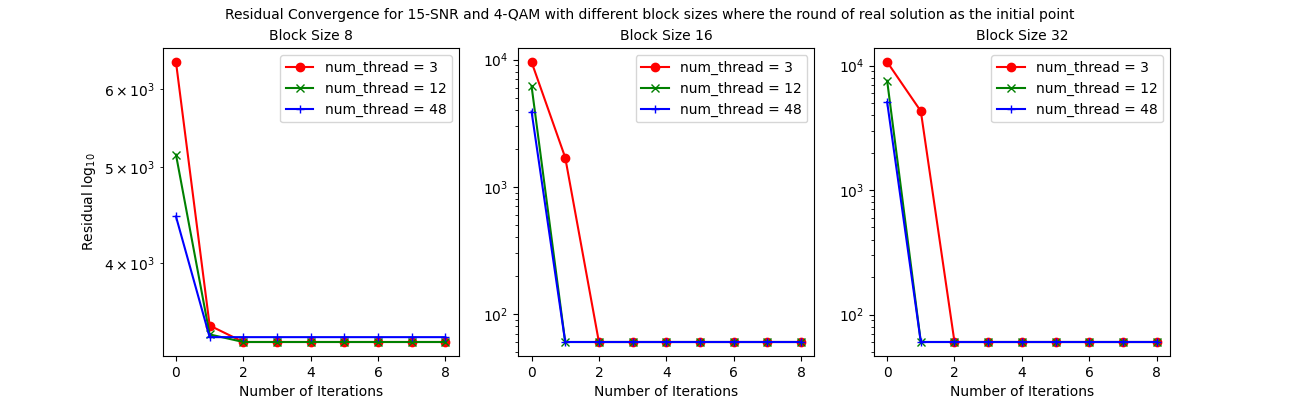
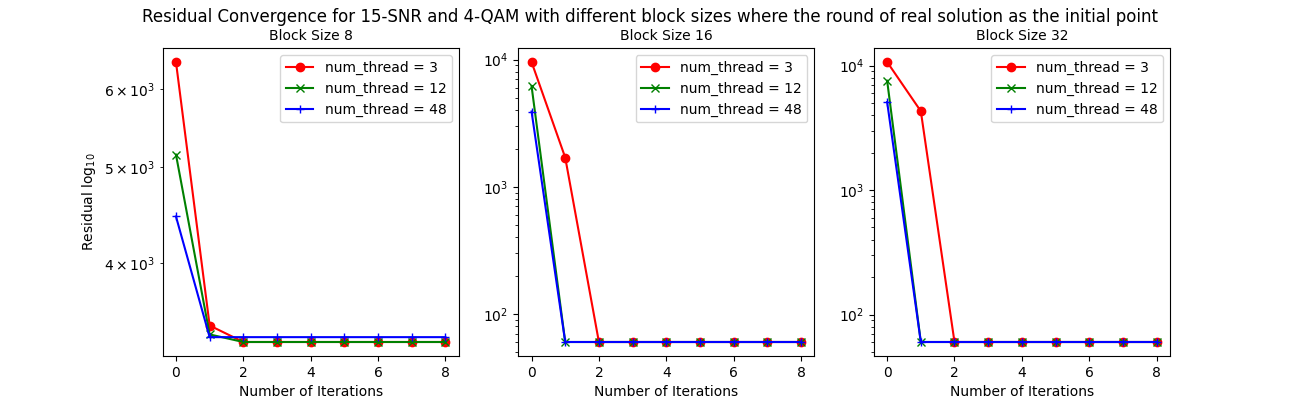
Add results for residual convergence

Changed region(s): [[0.0923, 0.0, 0.8923, 0.06]]

diff --git a/past_results_2020_11_21/plot_helper.py b/past_results_2020_11_21/plot_helper.py
@@ -206,7 +206,7 @@ def plot_res_conv(n):
                     elif init_value in '1':
                         title = title + 'where each element in the initial point is the rounded mean'
 
-                    fig.suptitle(title, fontsize=10)
+                    fig.suptitle(title, fontsize=12)
                     plt.savefig(
                         './' + str(n) + '_res_' + init_value + "_" + SNR + "_" + line_str[0] + '_' + str(pow(4, f)))
                     plt.close()
